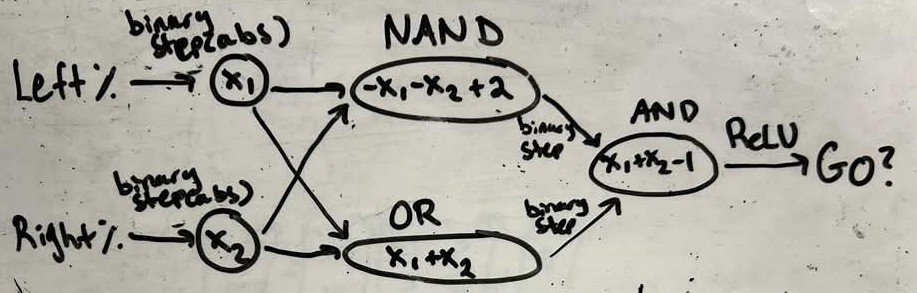
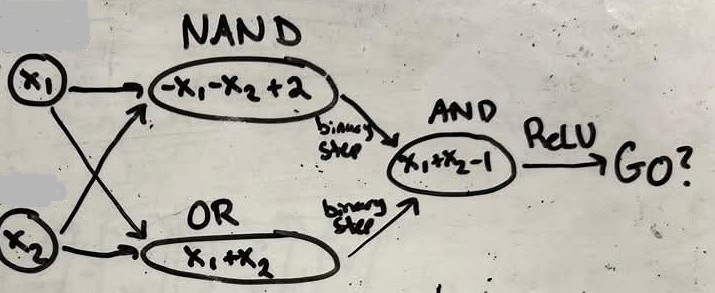
fixed (?) hackthon activities

diff --git a/TeachingNNs/HackathonActivities/Discrete_LineFollower_RLNNPython.py b/TeachingNNs/HackathonActivities/Discrete_LineFollower_RLNNPython.py
@@ -1,0 +1,114 @@
+# Mostly written by Claude, I wrote all those comments to explain stuff to myself
+import legoeducation as le
+import random
+import time
+
+# --- Network ---
+# W[i][j] = weight from input j to output i
+# two ins and outs --> two neurons in only layer, each with two weights --> 3 x 2 weight matrix and 3 x 1 bias vector (omitted for simplicity)
+# Just randomly assigning this for now and will update it as it learns
+W = [[random.uniform(-0.1, 0.1) for _ in range(2)] for _ in range(3)]
+
+def forward(x):
+    """Compute Q-values for both actions."""
+    # No bias vector, so just passting through by multiplying in vector by weight matrix (Q function), predicts reward?
+    return [
+        W[0][0]*x[0] + W[0][1]*x[1],  # Q(action 0)
+        W[1][0]*x[0] + W[1][1]*x[1],  # Q(action 1)
+        W[2][0]*x[0] + W[2][1]*x[1],  # Q(action 2)
+    ]
+
+def update(x, action, target, lr=0.1):
+    """Nudge the weights for the chosen action toward the target."""
+    # Predict reward
+    q = forward(x)
+
+    # Calculate the error (just difference here)
+    error = q[action] - target                  # how wrong we were
+
+    # Need to update the weights
+    # Say we chose action 0, then we want to take the weights in the first row (that was the equation we used to get that strong reward), and update them
+    # This equation calculates the derivative of the loss equation (MSE) with respect to W[action] times the learning rate
+    # We want to subtract that vector so that if the error was negative (our pred reward was too low), increase the weight to make pred reward higher. 
+    W[action][0] -= lr * 2 * error * x[0]       # gradient step
+    W[action][1] -= lr * 2 * error * x[1]
+
+# --- Environment ---
+def get_reward(sensorL, sensorR):
+    # maybe change this, for now I am just saying that the reward is inversely proportional to the sum of the sensor readings
+    # ie, reward when the sensors see dark (are on the line)
+    return (200 - sensorL + sensorR)
+
+def move(dm, action):
+    if action == 0:
+        print("left")
+        turn_left(dm, 10)
+    elif action == 1:
+        print("right")
+        turn_right(dm, 10)
+    else:
+        print("forwards")
+        dm.movement_turn_for_degrees(degrees=90, direction=le.MOVEMENT_TURN_DIRECTION_RIGHT, speed=10)
+        time.sleep(0.5)
+
+def turn_left(dm, degrees):
+    dm.imu_reset_yaw_axis(0)
+    dm.motor_run(direction=le.MOTOR_MOVE_DIRECTION_COUNTERCLOCKWISE, motor=le.MOTOR_RIGHT, speed=10)
+    dm.motor_run(direction=le.MOTOR_MOVE_DIRECTION_COUNTERCLOCKWISE, motor=le.MOTOR_LEFT, speed=10)
+    while dm.imu_device.yaw > -degrees:
+        time.sleep(0.1)
+    dm.motor_stop()
+
+def turn_right(dm, degrees):
+    dm.imu_reset_yaw_axis(0)
+    dm.motor_run(direction=le.MOTOR_MOVE_DIRECTION_CLOCKWISE, motor=le.MOTOR_LEFT, speed=10)
+    dm.motor_run(direction=le.MOTOR_MOVE_DIRECTION_CLOCKWISE, motor=le.MOTOR_RIGHT, speed=10)
+    while dm.imu_device.yaw < 360-degrees:
+        time.sleep(0.1)
+    dm.motor_stop()
+
+# --- Training loop ---
+# start the exploration high because we know nothing
+exploration_rate = 1.0 
+
+# will have left and right sensor readings
+state = []
+
+dm = le.DoubleMotor()
+cL = le.ColorSensor()
+cR = le.ColorSensor()
+
+dm.connect(card_serial="1128", card_color=le.LEGO_COLOR_PURPLE)
+cL.connect(card_serial="1128", card_color=le.LEGO_COLOR_PURPLE)
+cR.connect(card_serial="1131")
+
+while True:
+    # Get current state
+    state = [cL.sensor.reflection, cR.sensor.reflection]
+
+    # Get the q value (reward)
+    q = forward(state)
+
+    # choose to explore or exploit
+    # higher exploration_rates mean we are more likely to take the exploration path (more numbers are less than it)
+    if random.random() < exploration_rate:
+        # explore --> choose randomly 
+        action = random.randint(0, 2)
+    else:
+        # exploit --> just take the known good action calculated by Q
+        action = q.index(max(q))
+    
+    # take action:
+    move(dm, action)
+
+    # calculate what the reward was from that action
+    reward = get_reward(cL.sensor.reflection, cR.sensor.reflection)
+
+    # Our target is just the immediate reward, 
+    target = reward
+
+    # Update the values
+    update(state, action, target)
+
+    # Decay exploration_rate: explore less over time
+    exploration_rate = max(0.01, exploration_rate * 0.99)

diff --git a/TeachingNNs/HackathonActivities/2ORDrive.md b/TeachingNNs/HackathonActivities/2ORDrive.md
@@ -3,8 +3,17 @@
 ## Goal
 
 Build your car now to be controlled by the joystick using an OR gate:
-- Either or both joysticks being in the non-zero position moves the car forwards at a default speed
-- Both joysticks being at zero means the car does not move
+- Either or both joysticks being active moves the car forwards at a default speed
+- Both joysticks being inactive means the car does not move
+
+Use these function to determine if your joysticks are active, and use them as the inputs to your network:
+```python
+def is_active_left(controller):
+    return controller.sensor.leftPercent > 5 or controller.sensor.leftPercent < -5
+
+def is_active_right(controller):
+    return controller.sensor.rightPercent > 5 or controller.sensor.rightPercent < -5
+```
 
 **Challenge:** Try drawing your diagram just like you did for the last activity before writing the program. What are the input(s) and output(s)? What is an equation that gets you from inputs to outputs? You might need to use something called an activation function, so look at the tips for help. 
 
@@ -14,13 +23,26 @@ Then, you can use your diagram to write your code as an equation rather than usi
 <details>
 <summary>Read tips</summary>
 
-- Draw your diagram, the hard part is figuring out the equation. What is your output, and how can you represent it as a number?
-- If you have multiple inputs, how do you make sure to include both of them in a linear equation? 
-- You might find that you cannot get the output numbers exactly where you want them to be for a binary output, try using an **activation function** around your linear equation, something that alters the output of your linear equation in a non-linear way. Some examples of activation functions:
+- Draw your diagram, see if a structure like this helps:
+![Diagram Structure](activity2_example_diagram.jpeg)
+
+- You might find that you cannot get the output numbers exactly where you want them to be for a binary output, try using an **activation function** after your linear equation, something that alters the output of your linear equation in a non-linear way. A couple examples of activation functions you can try:
     - ReLU: any number below 0 becomes 0, other numbers stay their value
+        ```python
+        def ReLU(x):
+            if x < 0:
+                return 0
+            else:
+                return x
+        ```
     - Binary Step: Anything over 0 becomes 1, anything less than or equal to 0 becomes 0
-    - Absolute value: Take the magnitude of the number
-- Feel free to use any combination of the above functions anywhere in your diagram you see fit, or make your own.
+        ```python
+        def binary_step(x):
+            if x <= 0:
+                return 0
+            else:
+                return 1
+        ```
 
 </details>
 
@@ -34,11 +56,11 @@ m = le.DoubleMotor()
 c.connect()
 m.connect()
 
-def abs(x):
-    if x < 0:
-        return -1 * x
-    else:
-        return x
+def is_active_left(controller):
+    return controller.sensor.leftPercent > 5 or controller.sensor.leftPercent < -5
+
+def is_active_right(controller):
+    return controller.sensor.rightPercent > 5 or controller.sensor.rightPercent < -5
 
 def binary_step(x):
     if x <= 0:
@@ -47,15 +69,13 @@ def binary_step(x):
         return 1
 
 def layer(x1, x2):
-    return (abs(x1) + abs(x2))
+    return (x1 + x2)
 
 def predict(x1, x2):
-    x1 = abs(x1)
-    x2 = abs(x2)
     return (binary_step(layer(x1, x2)))
 
 while True:
-    go = predict(c.sensor.leftPercent, c.sensor.rightPercent)
+    go = predict(int(is_active_left(c)), int(is_active_right(c)))
     if go == 1:
         print("going")
         m.motor_run(direction=le.MOTOR_MOVE_DIRECTION_CLOCKWISE, speed=10, motor = le.MOTOR_LEFT)
@@ -69,8 +89,6 @@ while True:
 </details>
 
 ## Modeling the Equation
-<details>
-<summary>Read instructions</summary>
 
 Look at the tips for some help drawing your diagram if you haven't already.
 
@@ -80,6 +98,4 @@ Think about why the activation function was useful, and why neural networks migh
 <summary>Example Diagram Solution</summary>
 
 ![OR Diagram](activity2_diagram.jpeg)
-</details>
-
 </details>

diff --git a/TeachingNNs/HackathonActivities/3XORDrive.md b/TeachingNNs/HackathonActivities/3XORDrive.md
@@ -7,6 +7,15 @@ Now, do the same as the last activity, but instead of using an OR gate, use an X
 - Both of the joysticks being active does not move the car
 - Both the joysticks being inactive does not move the car
 
+Use these function to determine if your joysticks are active, and use them as the inputs to your network:
+```python
+def is_active_left(controller):
+    return controller.sensor.leftPercent > 5 or controller.sensor.leftPercent < -5
+
+def is_active_right(controller):
+    return controller.sensor.rightPercent > 5 or controller.sensor.rightPercent < -5
+```
+
 Again, try drawing your diagram before diving into the coding, and think about how you can use activation functions. See tips for some hints.
 
 ## Tips
@@ -16,7 +25,8 @@ Again, try drawing your diagram before diving into the coding, and think about h
 
 - You might have trouble modeling this problem with just one equation, so think about how you can break it into smaller problems, each with their own equation
     - Bonus hint: In particular, can you describe XOR in terms of two simpler logic gates? (Try looking up NAND...)
-- How would you draw your diagram now that you broke it down some? Think about the flow of inputs to outputs, and add some extra circles if you need to.
+- How would you draw your diagram now that you broke it down some? Think about the flow of inputs to outputs, and add some extra circles if you need to. Think about this kind of structure as an example:
+![Diagram Structure](activity3_example_diagram.jpeg)
 
 </details>
 
@@ -29,11 +39,11 @@ m = le.DoubleMotor()
 c.connect()
 m.connect()
 
-def abs(x):
-    if x < 0:
-        return -1 * x
-    else:
-        return x
+def is_active_left(controller):
+    return controller.sensor.leftPercent > 5 or controller.sensor.leftPercent < -5
+
+def is_active_right(controller):
+    return controller.sensor.rightPercent > 5 or controller.sensor.rightPercent < -5
 
 def binary_step(x):
     if x <= 0:
@@ -57,15 +67,13 @@ def layer2(x1, x2):
     return x1 + x2 - 1
 
 def predict(x1, x2):
-    x1 = binary_step(abs(x1))
-    x2 = binary_step(abs(x2))
     out1 = binary_step(layer1_1(x1, x2))
     out2 = binary_step(layer1_2(x1, x2))
     out = ReLU(layer2(out1, out2))
     return out
 
 while True:
-    go = predict(c.sensor.leftPercent, c.sensor.rightPercent)
+    go = predict(int(is_active_left(c)), int(is_active_right(c)))
     if go == 1:
         m.motor_run(direction=le.MOTOR_MOVE_DIRECTION_CLOCKWISE, speed=10, motor = le.MOTOR_LEFT)
         m.motor_run(direction=le.MOTOR_MOVE_DIRECTION_COUNTERCLOCKWISE, speed=10, motor = le.MOTOR_RIGHT)
@@ -77,12 +85,15 @@ while True:
 
 ## The Diagram
 <details>
-<summary>Solution and Further Thinking</summary>
+<summary>Solution</summary>
 
 Hopefully, you got a diagram that looks something like this:
 
 ![XOR Diagram](activity3_diagramcopy.jpeg)
 
+</details>
+
+## Turning it into a Matrix
 This is just like a real neural network: it has a linear input layer, a linear hidden layer, and a linear output layer, and uses activation functions to handle non-linearity.
 
 Also, pay attention to the flow of information. Every node in an input layer connects to every node in it's output layer, that allows to to represent this in matricies. Try turning this network a series of matrix equations: y = Wx + b. (If you need a quick intro to matrix multiplication, play around with this calculator: http://matrixmultiplication.xyz/). For example, we could translate a diagram like this as so:
@@ -91,6 +102,4 @@ Also, pay attention to the flow of information. Every node in an input layer con
 
 Being able to write every neurons equation in a layer as just one matrix makes life much simpler for us when programming how to use those equations.
 
-Try writing your XOR diagram as a series of equations with weight matrices and bias vectors. 
-
-</details>
+**Challenge**: Try writing your XOR diagram as a series of equations with weight matrices and bias vectors. 

diff --git a/TeachingNNs/HackathonActivities/1WallStop.md b/TeachingNNs/HackathonActivities/1WallStop.md
@@ -44,7 +44,8 @@ or, expanding, we get
 ```python
 speed = 50 - 0.5 * reflection
 ```
-Try drawing this in a diagram: represent your input(s) and output(s) with circles, and draw arrow(s) from each input(s) to each output(s), with equation(s) for how to get from one to the other.
+Try drawing this in a diagram like the one below:
+![Diagram Structure](activity1_example_diagram.jpeg)
 
 <details>
 <summary>Example Diagram Solution</summary>